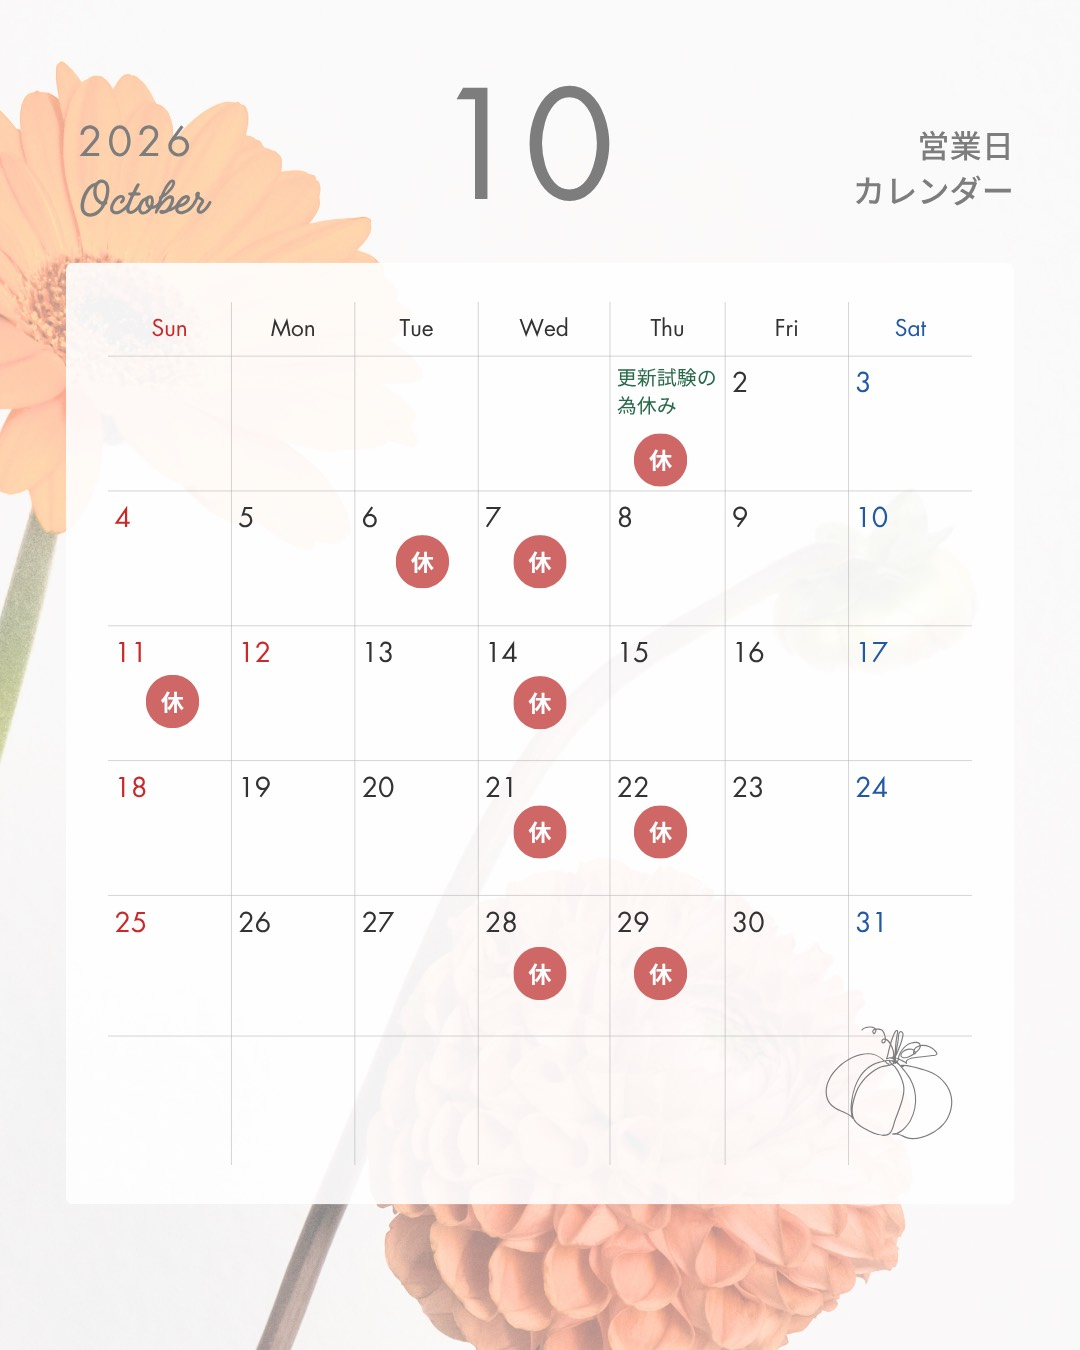
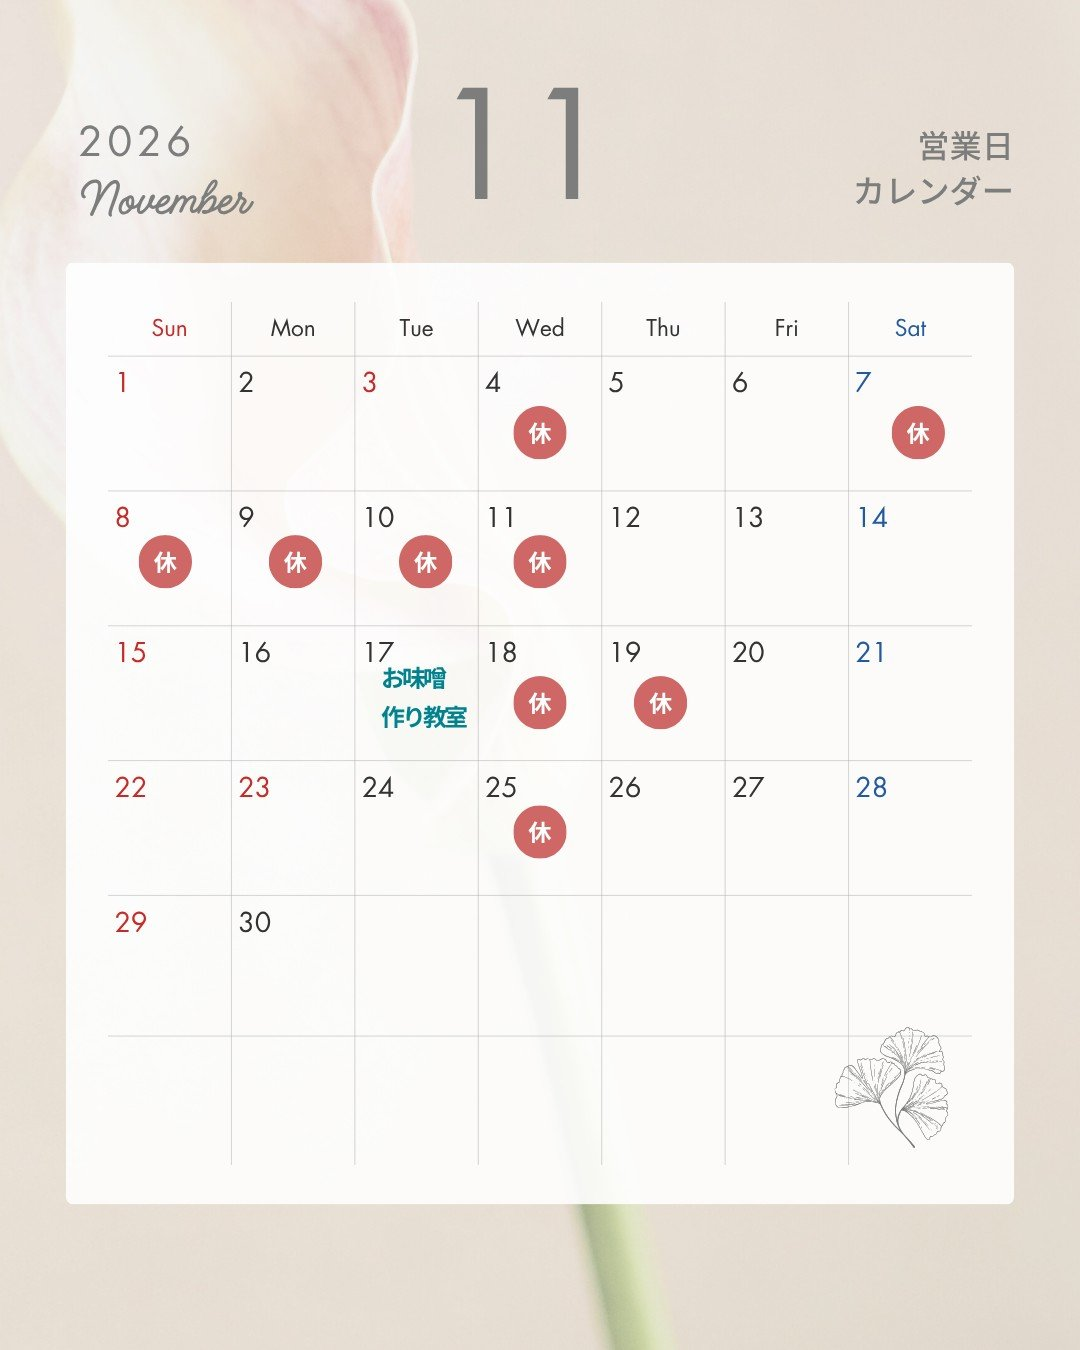
営業日カレンダーを11月分の1枚に差し替え

diff --git a/access.html b/access.html
@@ -157,8 +157,7 @@
         <span class="sec-num">content 02</span>
         <h2 class="ja">営業日カレンダー</h2>
       </div>
-      <div class="photo"><img src="assets/img/web/calendar-current.jpg" alt="2026年10月の営業日カレンダー" width="960" height="1200" loading="lazy"></div>
-      <div class="photo"><img src="assets/img/web/calendar-next.jpg" alt="2026年11月の営業日カレンダー" width="960" height="1200" loading="lazy"></div>
+      <div class="photo"><img src="assets/img/web/calendar-current.jpg" alt="2026年11月の営業日カレンダー" width="960" height="1200" loading="lazy"></div>
     </div>
   </section>
 
